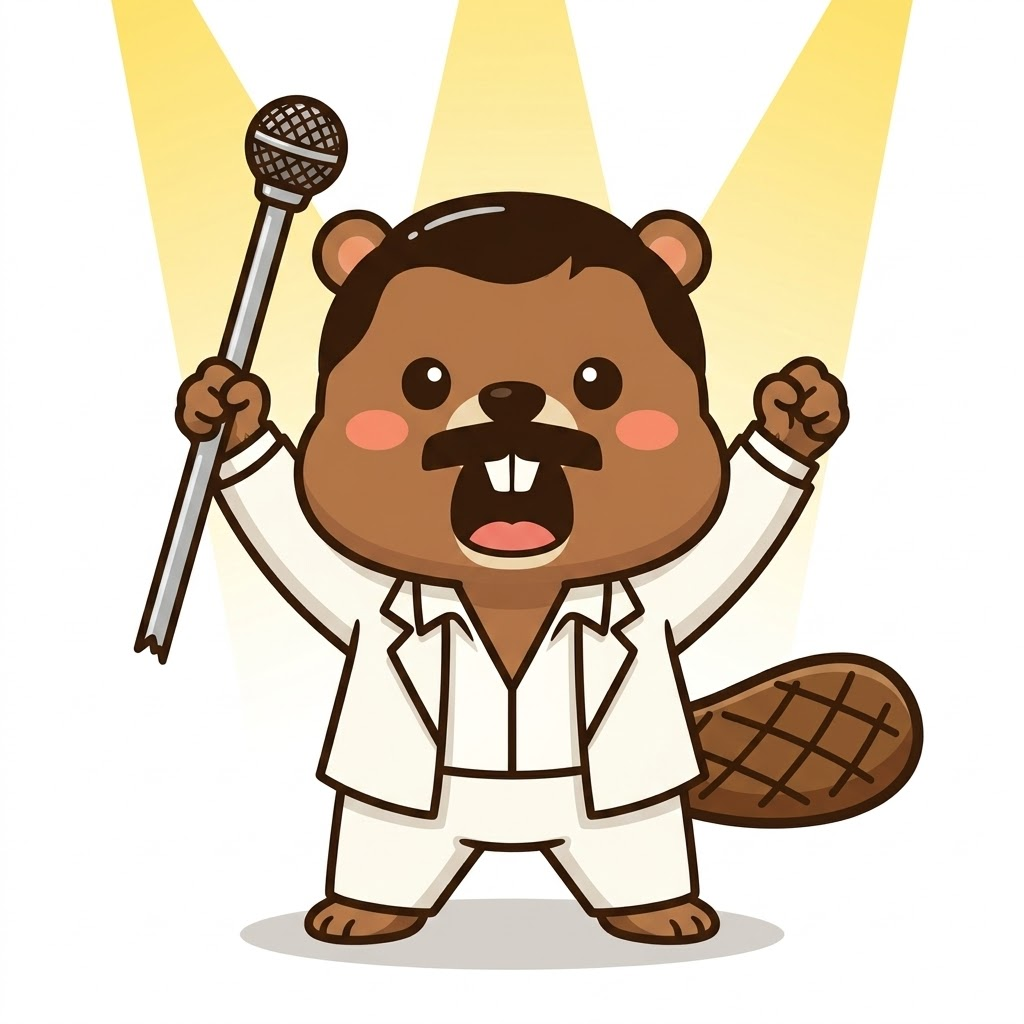
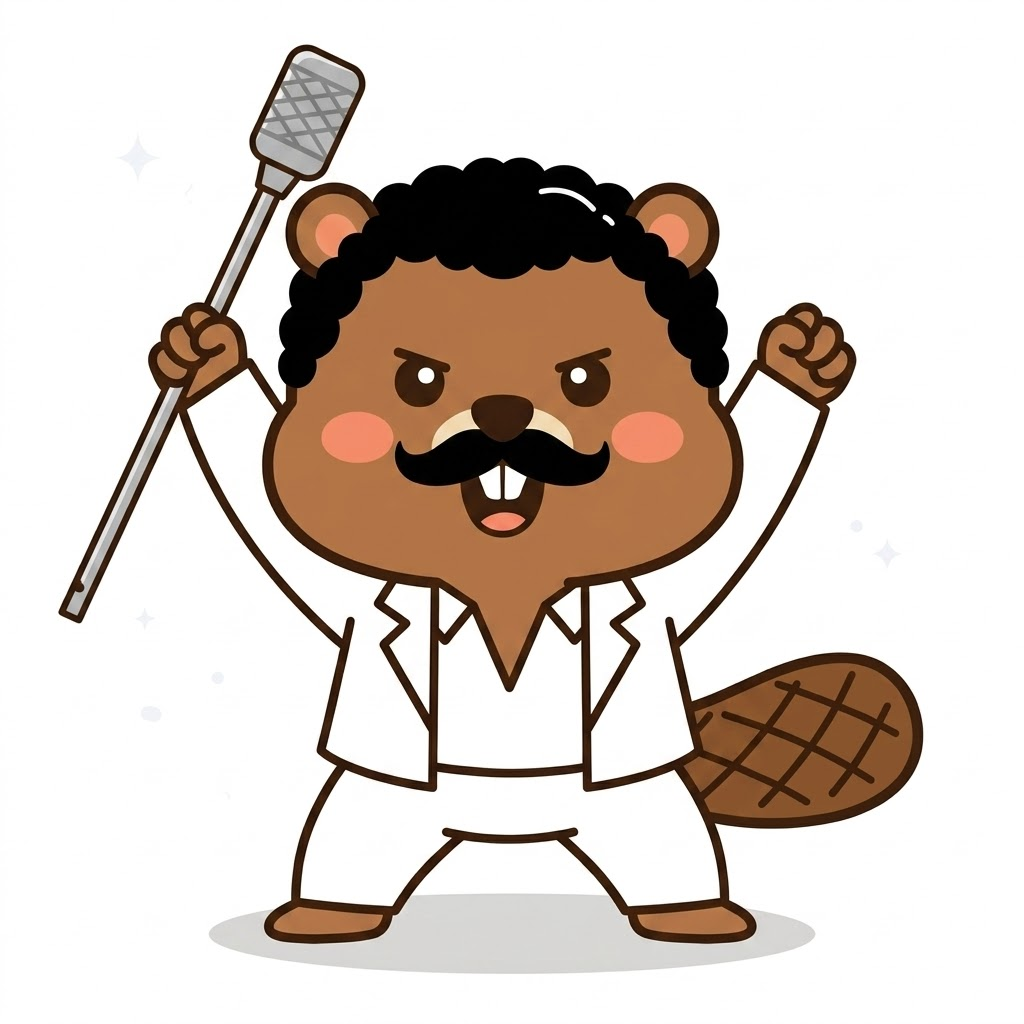
feat(biji): queen 새 이미지 적용 — 흰 수트 + 곱슬 흑발 + Shure 565 직사각형 마이크
사용자가 v4 프롬프트(흰 수트·직사각형 마이크·콧수염 강조)로 Recraft에서 재생성한
시크비지/퀸 비버.jpg 반영. 깔끔하게 jpg→png 직접 변환(alpha 처리 X)로 원본 화질 유지.
캐시버스트 ?v=4로 즉시 반영.

diff --git a/src/components/BijiCard.tsx b/src/components/BijiCard.tsx
@@ -169,7 +169,7 @@ export function BijiCard({
         {/* 비지 — 카드 영역 풀로 채움(원본 jpg 정사각 그대로). drop-shadow 제거 (흰 배경에 그림자 어색). */}
         {/* eslint-disable-next-line @next/next/no-img-element */}
         <img
-          src={`${tier.image}?v=3`}
+          src={`${tier.image}?v=4`}
           alt={`${tier.label} 비지`}
           className="biji-breathe absolute inset-0 h-full w-full select-none"
           style={{ objectFit: "contain" }}
